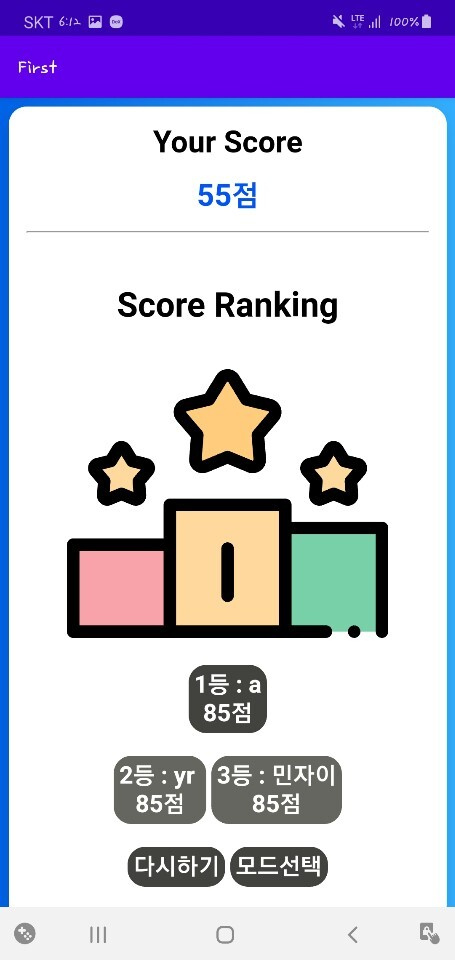
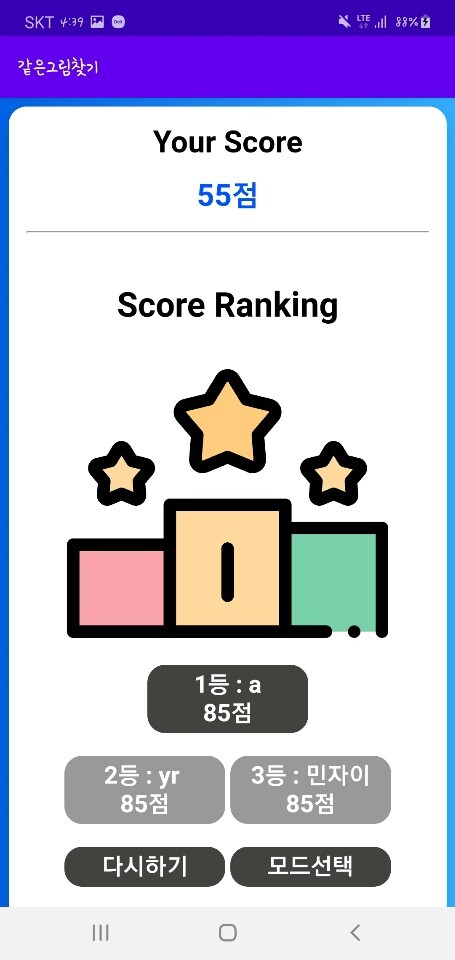
Description

diff --git a/description/description.html b/description/description.html
@@ -1,23 +1,72 @@
-<!DOCTYPE html>
-<html lang="en">
-<head>
-    <meta charset="UTF-8">
-    <meta name="viewport" content="width=device-width, initial-scale=1.0">
-    <title>Game Description</title>
-</head>
+<script src="https://code.jquery.com/jquery-3.2.1.min.js"></script>
+       <style type="text/css">
+       :root {
+ --input-padding-x: 1.5rem;
+ --input-padding-y: .75rem;
+}
+
+body {
+ background: #007bff;
+ background: linear-gradient(to right, #0062E6, #33AEFF);
+}
+#scoreBtn{
+  border: 0;
+  border-radius: 1rem;
+  color: white;
+  font-size:20px;
+  background-color: #42423E;
+  padding: 5px;
+  width:15%;
+  font-weight: bold;
+  border-collapse: collapse;
+  display: inline-block;
+}
+
+.card-signin {
+ border: 0;
+ border-radius: 1rem;
+ background: #fff;
+ text-align : right;
+ box-shadow: 0 0.5rem 1rem 0 rgba(0, 0, 0, 0.1);
+}
+
+.card-signin .card-title {
+ margin-bottom: 2rem;
+ font-weight: 300;
+ text-align: center;      
+ font-size: 1.5rem;
+
+}
+
+.card-signin .card-body {
+ padding: 2rem;
+ text-align: center;   
+}
+
+
+        </style>
 <body>
-    <p>
-        같은 그림 찾기
-        <ol>
-            <li>회원이 아니시라면 먼저 회원가입을 하셔야합니다.</li>
-            <li>회원이시라면, 로그인을 하셔야 게임을 즐기실 수 있습니다.</li>
+ <div class="container">
+   <div class="row">
+     <div class="col-sm-9 col-md-7 col-lg-5 mx-auto">
+       <div class="card card-signin my-5">
+         <br>
+                         <td class='alignRight'>
+			<input type="button" onclick="location.href='http://webdev.iptime.org:8080/kgy/modeselect.html'" value="돌아가기" id='scoreBtn'></td>
+         <div class="card-body">
+           <h5 class="card-title text-center">[같은그림찾기]</h5>
+           <form class="form-signin" action="#">
+
+            1. 회원이 아니시라면 먼저 회원가입을 하셔야합니다.<br>
+          <br>
+            2. 회원이시라면, 로그인을 하셔야 게임을 즐기실 수 있습니다.<br>
             <br>
-            <li>총 20개의 카드로 10개 종류의 그림이 있습니다.
+            3. 총 20개의 카드로 10개 종류의 그림이 있습니다.
                 <br>
                 그림 짝을 모두 맞추면 끝나는 단순한 게임입니다.
-            </li>
             <br>
-            <li>게임 모드는 Score mode와 Timer mode 2가지로 나뉩니다.
+            <br>
+            4.게임 모드는 Score mode와 Timer mode 2가지로 나뉩니다.
                 <br>
                 하단에는 회원님의 아이디, 점수(Score mode의 경우) 또는 시간(Timer mode의 경우), start버튼이 있습니다. 
                 <br>
@@ -27,24 +76,27 @@
                 <br>
                 <img src="Score.jpg" width="300" height="200" alt="score mode">
                 <img src="Timer.jpg" width="300" height="200" alt="timer mode">
-            </li>
+            <br>
             <br>
 
-            <li>Score mode : 시간에 제한은 없습니다. 하지만 짝을 잘못 맞췄을 시에는 감점이 있습니다.<br>
+            5. Score mode : 시간에 제한은 없습니다. 하지만 짝을 잘못 맞췄을 시에는 감점이 있습니다.<br>
                  맞췄을 시 : +10 / 틀렸을 시 : -5
                  <br>
                 <img src="AfterScore.jpg" width="300" height="200" alt="finish">
-            </li>
             <br>
-            <li>Timer mode : 누가 더 빨리 게임을 끝내는지 겨루는 방식입니다.<br>
+            <br>
+            6. Timer mode : 누가 더 빨리 게임을 끝내는지 겨루는 방식입니다.<br>
                  타이머가 존재합니다. 하지만 카드 짝을 잘못 맞췄을 경우에 감점은 없습니다.
                 <br>
-                <img src="AfterTimer.jpg" width="300" height="200" alt="finish"></li>
-            <li>Rank : Timer mode와 Score mode의 rank를 확인할 수 있습니다. 각 모드별로 1위부터 3위까지 보여줍니다. <br>
-            <img src="Rank.jpg" width="300" height="200" alt=""></li>
+                <img src="AfterTimer.jpg" width="300" height="200" alt="finish"><br>
+            7. Rank : Timer mode와 Score mode의 rank를 확인할 수 있습니다. 각 모드별로 1위부터 3위까지 보여줍니다. <br>
+            <img src="Rank.jpg" width="300" height="200" alt=""><br>
             
-        </ol>
-    </p>
-    
+  <br>
+           </form>
+         </div>
+       </div>
+     </div>
+   </div>
+ </div>
 </body>
-</html>
